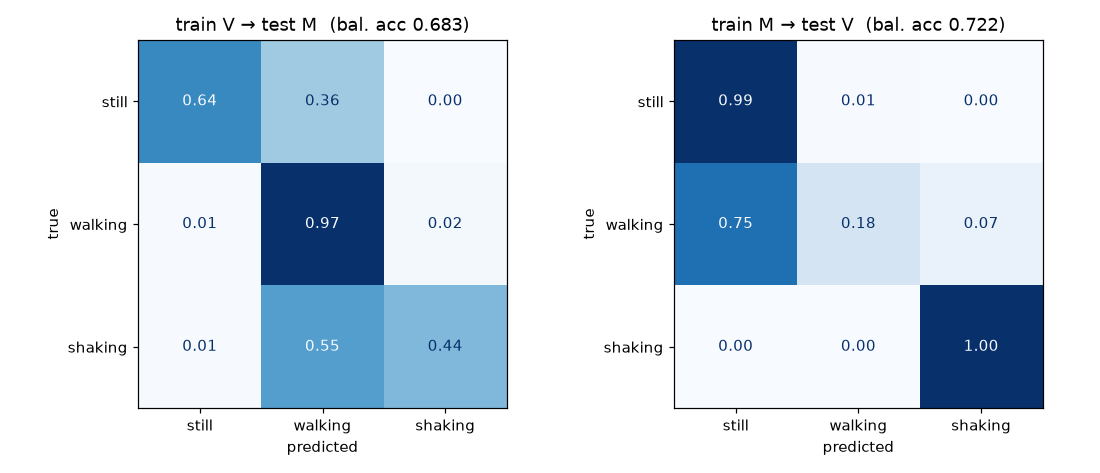
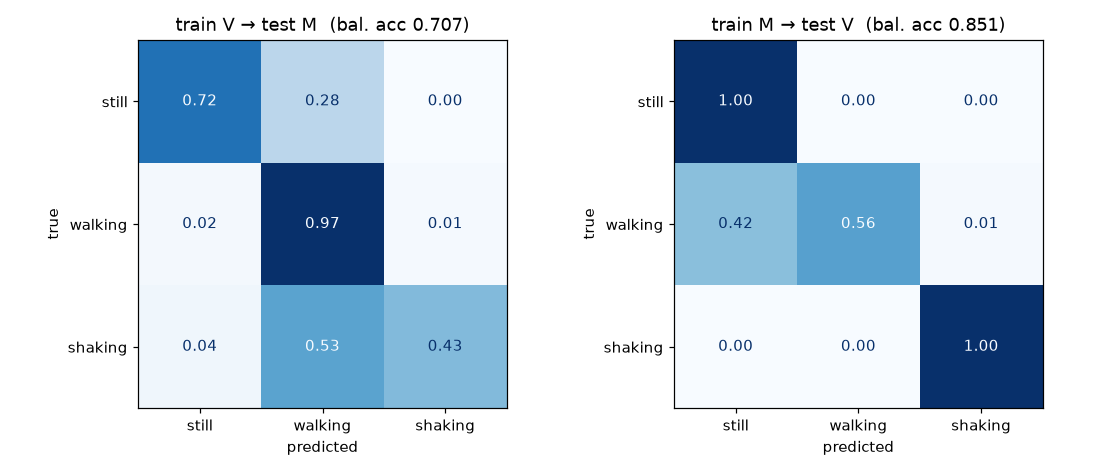
feat(ml): cross-dataset results with 87 dogs
- full run of train_multi.py replaces the smoke-test report
- cross-population: V->M 0.707, M->V 0.851; most of the gap is the
  still/walking boundary each lab used, not the sensor
- adding M improves M test dogs (0.665 -> 0.737) without hurting V;
  combined int8 model 18.9 KB
- results, README and rule 5 updated: report cross-population tests

diff --git a/docs/results.md b/docs/results.md
@@ -37,6 +37,34 @@ export to the firmware (Phase 2).
   while the IMU decides "still"). ⚠ It uses axis-specific features (`ay`, `az`), which
   depend on collar orientation. It must be retrained with random rotation and validated on
   our own data before going into the IMU.
+## Two public datasets (Vehkaoja + Marcato, 87 dogs) · [report](results/multi_dataset.md)
+
+| Experiment | Balanced acc. |
+|---|---:|
+| Train V (45 dogs) → test M (42 other dogs, other lab) | **0.707** |
+| Train M → test V | **0.851** |
+| GroupKFold by dog, V test dogs: trained on V only / on V + M | 0.965 / 0.962 |
+| GroupKFold by dog, M test dogs: trained on V only / on V + M | 0.665 / **0.737** |
+| Combined int8 model (87 dogs) | 18.9 KB |
+
+### Reading (2026-11-16)
+
+- **Cross-population accuracy drops a lot (0.96 → 0.71–0.85).** This is the honest number
+  for "someone else's dog, set up by someone else", and the main risk for the open project.
+- **Most of the gap is where each lab drew the still / walking boundary**, not the sensor:
+  the V-trained model calls 28% of M's "still" walking, and the M-trained model calls 42% of
+  V's "walking" still. M's dogs stand with small steps during commanded postures; V's
+  "walking" includes slow, sniffing walks. Consistent definitions
+  ([labeling guide](protocols/labeling.md)) matter as much as more data.
+- **Adding M helps M-like dogs (+0.07) without hurting V dogs.** More diverse data is worth it.
+- **Shaking does not transfer from M** (F1 0.24–0.42 on M dogs): only ~19 short shakes in M,
+  labeled at 1 s resolution, so boundaries are coarse.
+- **What this changes:** every future model is also reported on a held-out population
+  (cross-dataset), not only on held-out dogs; Phase 1 data is labeled with one shared guide;
+  the Phase 1 domain-gap measurement on our own dogs is now the key result.
+
+## Notes
+
 - **Breathing ([report](results/breathing_feasibility.md)):** the collar clearly sees
   panting (~240/min, sharp peak); calm resting breathing is inconclusive on this dataset.
   Respiratory rate stays experimental until Phase 1 night videos.

diff --git a/docs/results/multi_dataset.md b/docs/results/multi_dataset.md
@@ -6,7 +6,7 @@
 - **M**: Marcato et al. 2023, 42 assistance dogs (Labrador/Golden), neck strap.
 
 Both: neck IMU at 50 Hz, ±16 g / ±2000 dps, 2 s windows, the same 1D CNN as Phase 0
-(2 epochs, 3D-rotation augmentation), float model. Balanced accuracy is computed over
+(25 epochs, 3D-rotation augmentation), float model. Balanced accuracy is computed over
 the classes present in each test set.
 
 ## Experiment 1: train on one dataset, test on the other
@@ -16,8 +16,8 @@ seen during training (different dogs, mounting, lab and annotators).
 
 | Train | Test | Balanced acc. | F1 |
 |---|---|---:|---|
-| V (45 dogs) | M | 0.683 | still 0.78 · walking 0.66 · shaking 0.36 |
-| M (42 dogs) | V | 0.722 | still 0.91 · walking 0.29 · shaking 0.60 |
+| V (45 dogs) | M | 0.707 | still 0.84 · walking 0.72 · shaking 0.42 |
+| M (42 dogs) | V | 0.851 | still 0.95 · walking 0.71 · shaking 0.86 |
 
 ![Cross-dataset confusion matrices](figures/multi_dataset_cross.png)
 
@@ -28,10 +28,10 @@ each fold both variants are tested on the same unseen dogs.
 
 | Test dogs | Trained on | Balanced acc. | F1 |
 |---|---|---:|---|
-| V test dogs | V only | 0.946 | still 0.98 · walking 0.87 · running 0.92 · shaking 0.82 |
-| V test dogs | V + M | 0.957 | still 0.99 · walking 0.90 · running 0.94 · shaking 0.88 |
-| M test dogs | V only | 0.632 | still 0.81 · walking 0.62 · shaking 0.47 |
-| M test dogs | V + M | 0.677 | still 0.85 · walking 0.69 · shaking 0.47 |
+| V test dogs | V only | 0.965 | still 0.99 · walking 0.90 · running 0.95 · shaking 0.96 |
+| V test dogs | V + M | 0.962 | still 0.99 · walking 0.91 · running 0.95 · shaking 0.93 |
+| M test dogs | V only | 0.665 | still 0.87 · walking 0.68 · shaking 0.38 |
+| M test dogs | V + M | 0.737 | still 0.90 · walking 0.76 · shaking 0.24 |
 
-Combined model (all 87 dogs), int8: **18.8 KB**, saved to
+Combined model (all 87 dogs), int8: **18.9 KB**, saved to
 `ml/models/cnn_multi_int8.tflite` (not versioned).

diff --git a/README.md b/README.md
@@ -68,8 +68,15 @@ Evaluated with 5-fold `GroupKFold` by dog on the
 <sub>A single feature (variation of the acceleration magnitude over 2 s) already grows
 ~10× per step from still to walking to running to shaking.</sub>
 
-> These numbers come from a public dataset (different sensor, controlled environment).
-> The drop on our own dog's data (domain gap) will be measured in Phase 1.
+**Honest check across populations.** Adding a second public dataset (Marcato et al. 2023,
+42 assistance dogs, [details](docs/results/multi_dataset.md)) shows the real challenge: a
+model trained on one dataset and tested on the other's dogs scores **0.71–0.85**, mostly
+because each lab drew the still / walking boundary differently. Training on both helps the
+harder population (+0.07) without hurting the other, and a shared
+[labeling guide](docs/protocols/labeling.md) is now part of the protocol.
+
+> These numbers come from public datasets (different sensor, controlled environments).
+> The drop on our own dogs' data (domain gap) will be measured in Phase 1.
 
 ---
 

diff --git a/CLAUDE.md b/CLAUDE.md
@@ -209,7 +209,8 @@ class or field → new `version`.
 4. All firmware from Phase 3 onward keeps **OTA working**; a change that breaks updates is
    blocking.
 5. When reporting model results, always show: balanced accuracy, per-class F1, confusion
-   matrix, size (KB) and inference RAM.
+   matrix, size (KB) and inference RAM. From now on, also report a **cross-population** test
+   (train on one dataset, test on another) when more than one dataset is available.
 6. Power consumption is only claimed with a measurement (PPK2) and recorded in
    `docs/energy-budget.md`.
 7. Prefer simple solutions and explain why; the project is also a learning project.
